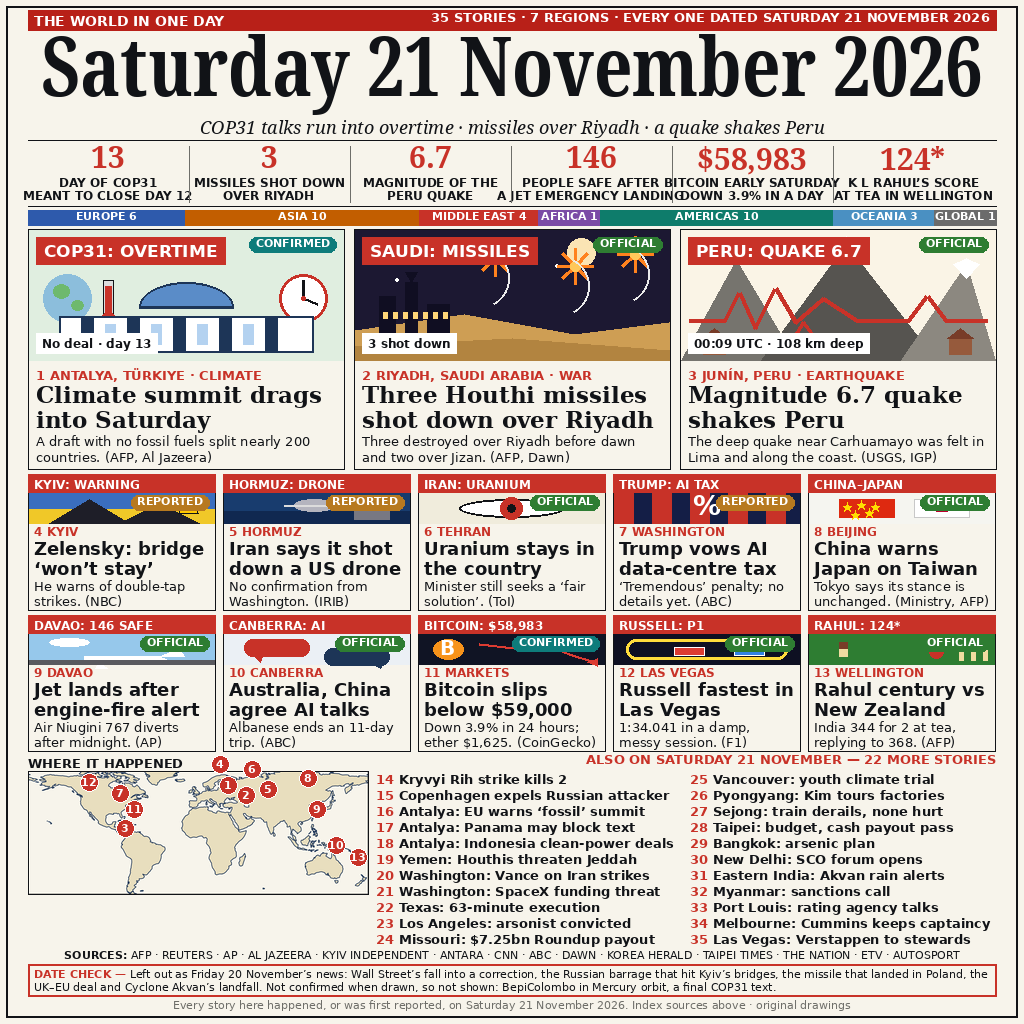
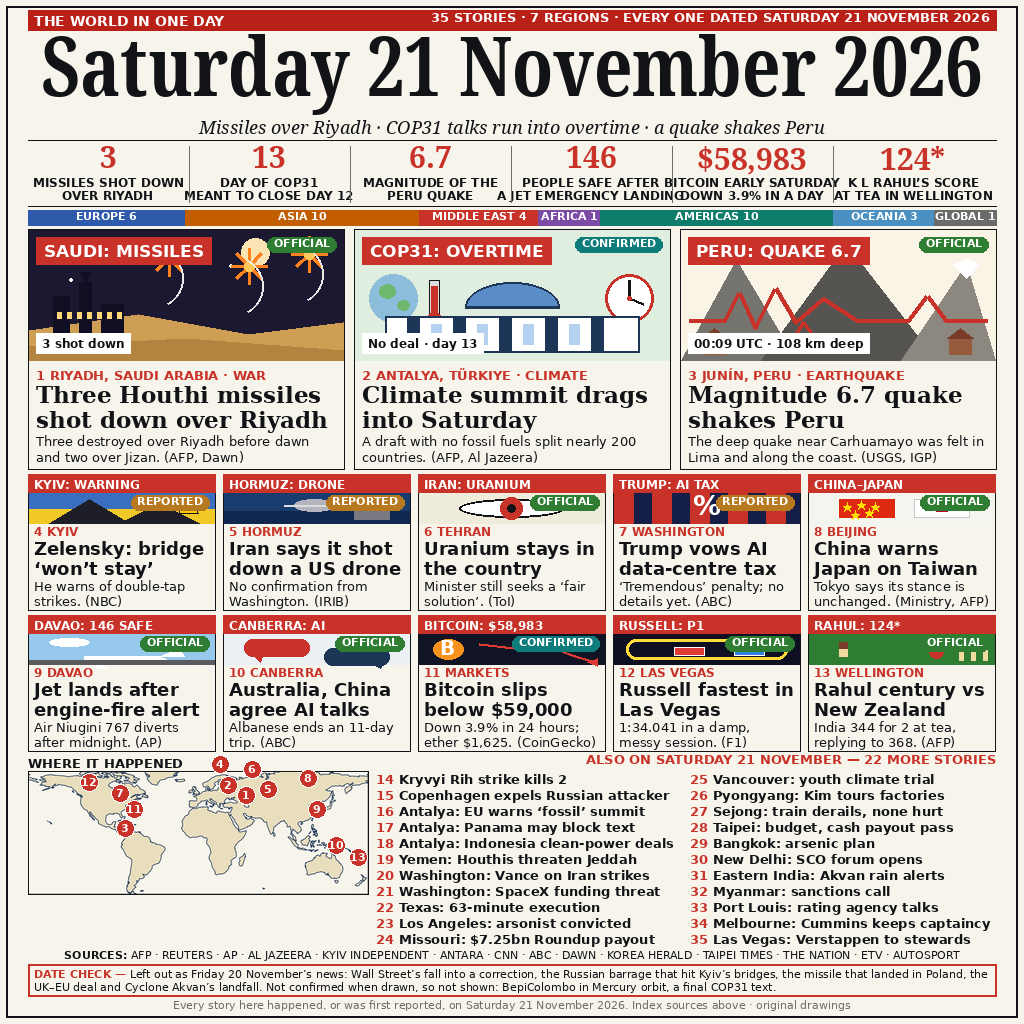
v7.5: lead with Riyadh missiles - re-rank page by consequence (hero 1<->2 swap, numbers + subhead reordered); same 35 stories

Changed region(s): [[0.0312, 0.0938, 0.6562, 0.4688], [0.5312, 0.0938, 0.625, 0.1562]]

diff --git a/render.py b/render.py
@@ -263,16 +263,16 @@ def tile_art(d, key, x, y, w, h):
 
 # ------------------------------------------------- story data (35, Saturday 21 Nov 2026)
 HEROES = [
-    dict(num=1, kicker="COP31: OVERTIME", stat="No deal \u00b7 day 13",
-         loc="1 ANTALYA, T\u00dcRKIYE \u00b7 CLIMATE",
-         head="Climate summit drags into Saturday",
-         body="A draft with no fossil fuels split nearly 200 countries. (AFP, Al Jazeera)",
-         badge="CONFIRMED", badge_color=TEAL, art=art_cop31),
-    dict(num=2, kicker="SAUDI: MISSILES", stat="3 shot down",
-         loc="2 RIYADH, SAUDI ARABIA \u00b7 WAR",
+    dict(num=1, kicker="SAUDI: MISSILES", stat="3 shot down",
+         loc="1 RIYADH, SAUDI ARABIA \u00b7 WAR",
          head="Three Houthi missiles shot down over Riyadh",
          body="Three destroyed over Riyadh before dawn and two over Jizan. (AFP, Dawn)",
          badge="OFFICIAL", badge_color=GREEN, art=art_riyadh),
+    dict(num=2, kicker="COP31: OVERTIME", stat="No deal \u00b7 day 13",
+         loc="2 ANTALYA, T\u00dcRKIYE \u00b7 CLIMATE",
+         head="Climate summit drags into Saturday",
+         body="A draft with no fossil fuels split nearly 200 countries. (AFP, Al Jazeera)",
+         badge="CONFIRMED", badge_color=TEAL, art=art_cop31),
     dict(num=3, kicker="PERU: QUAKE 6.7", stat="00:09 UTC \u00b7 108 km deep",
          loc="3 JUN\u00cdN, PERU \u00b7 EARTHQUAKE",
          head="Magnitude 6.7 quake shakes Peru",
@@ -354,8 +354,8 @@ SOURCES = ("AFP \u00b7 REUTERS \u00b7 AP \u00b7 AL JAZEERA \u00b7 KYIV INDEPENDE
            "ETV \u00b7 AUTOSPORT")
 
 NUMBERS = [
-    ("13", "DAY OF COP31", "MEANT TO CLOSE DAY 12"),
     ("3", "MISSILES SHOT DOWN", "OVER RIYADH"),
+    ("13", "DAY OF COP31", "MEANT TO CLOSE DAY 12"),
     ("6.7", "MAGNITUDE OF THE", "PERU QUAKE"),
     ("146", "PEOPLE SAFE AFTER", "A JET EMERGENCY LANDING"),
     ("$58,983", "BITCOIN EARLY SATURDAY", "DOWN 3.9% IN A DAY"),
@@ -376,7 +376,7 @@ REGIONS = [
 # map pins 1-13 (pixel positions on the 340x123 map; 1-2 and 3-11 nudged
 # apart so the enlarged r=9 pins do not overlap)
 PINS = [
-    (1, 228, 785), (2, 246, 795), (3, 125, 828), (4, 220, 764),
+    (1, 246, 795), (2, 228, 785), (3, 125, 828), (4, 220, 764),
     (5, 268, 789), (6, 252, 769), (7, 120, 793), (8, 308, 778),
     (9, 317, 809), (10, 336, 845), (11, 134, 809), (12, 89, 782),
     (13, 358, 857),
@@ -411,7 +411,7 @@ def render():
             break
         msize -= 2
     d.text((512, 34), mast, font=mf, fill=INK, anchor="mt")
-    d.text((512, 120), "COP31 talks run into overtime \u00b7 missiles over Riyadh \u00b7 a quake shakes Peru",
+    d.text((512, 120), "Missiles over Riyadh \u00b7 COP31 talks run into overtime \u00b7 a quake shakes Peru",
            font=F(SERIF_I, 18), fill=INK, anchor="mt")
 
     # numbers strip: 6 verified Saturday figures
